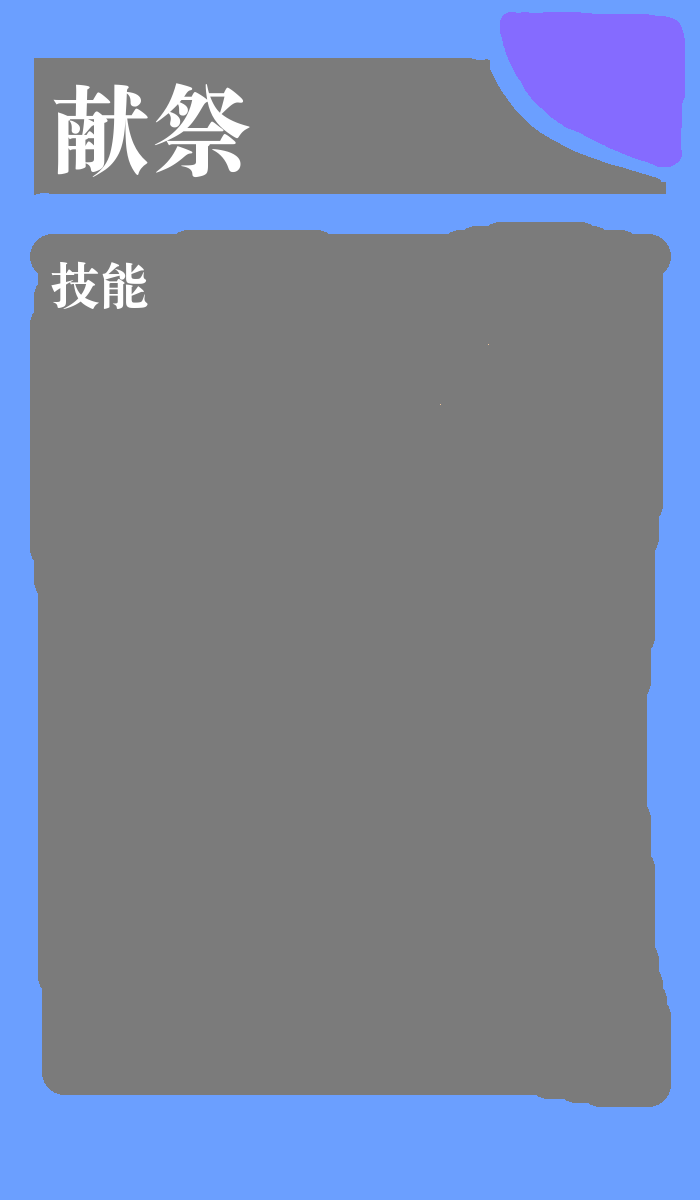
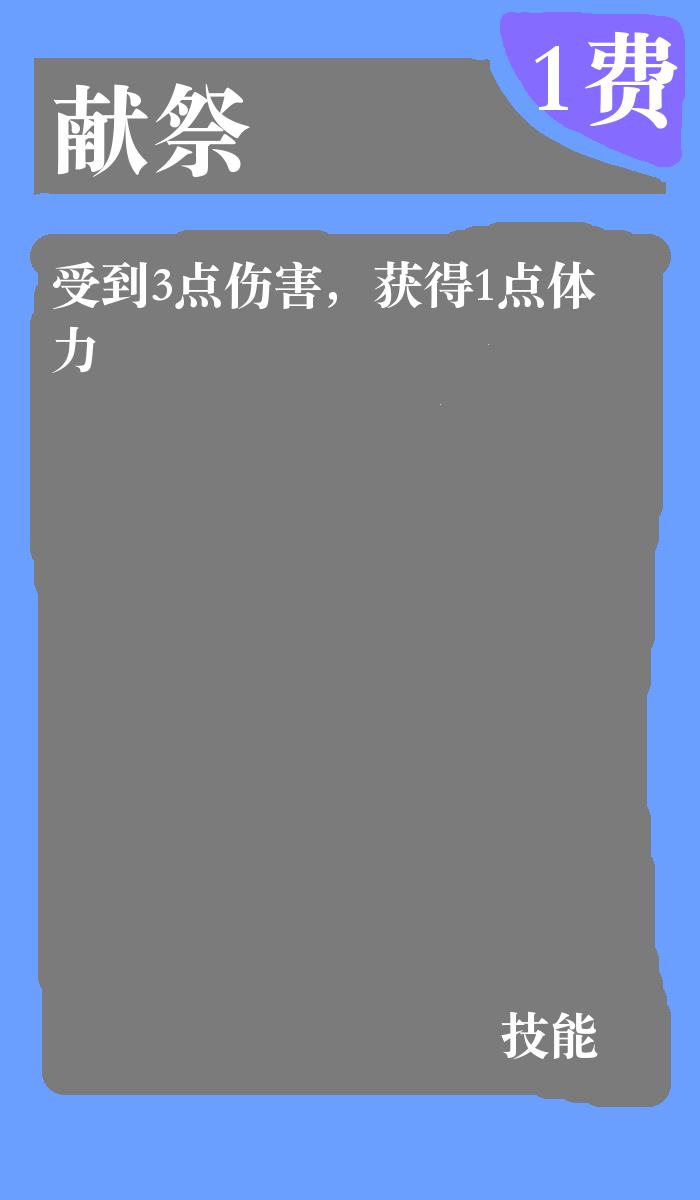
生成好了

diff --git a/generate.py b/generate.py
@@ -31,17 +31,27 @@ if __name__ == "__main__":
             image = Image.open(SKILL_CARD_IMAGE_PATH)
 
         title_font = ImageFont.truetype('Songti.ttc', 100)
+        type_font = ImageFont.truetype('Songti.ttc', 50)
+        cost_font = ImageFont.truetype('Songti.ttc', 100)
         desc_font = ImageFont.truetype('Songti.ttc', 50)
 
         title_x, title_y = 50, 60
         desc_x, desc_y = 50, 250
+        cost_x, cost_y = 530, 10
+        type_x, type_y = 500, 1000
 
         draw = ImageDraw.Draw(image)
 
         # draw title
         draw.text((title_x, title_y), entity[0], font=title_font, fill='white')
 
+        # draw type
+        draw.text((type_x, type_y), entity[1], font=type_font, fill='white')
+
+        # draw cost
+        draw.text((cost_x, cost_y), f"{entity[2]}费", font=cost_font, fill='white')
+
         # draw desc
-        draw_text_multiline(draw, (desc_x, desc_y), entity[1], desc_font, 12, 65)
+        draw_text_multiline(draw, (desc_x, desc_y), entity[4], desc_font, 12, 65)
 
         image.save(f'exports/{entity[0]}.png')
